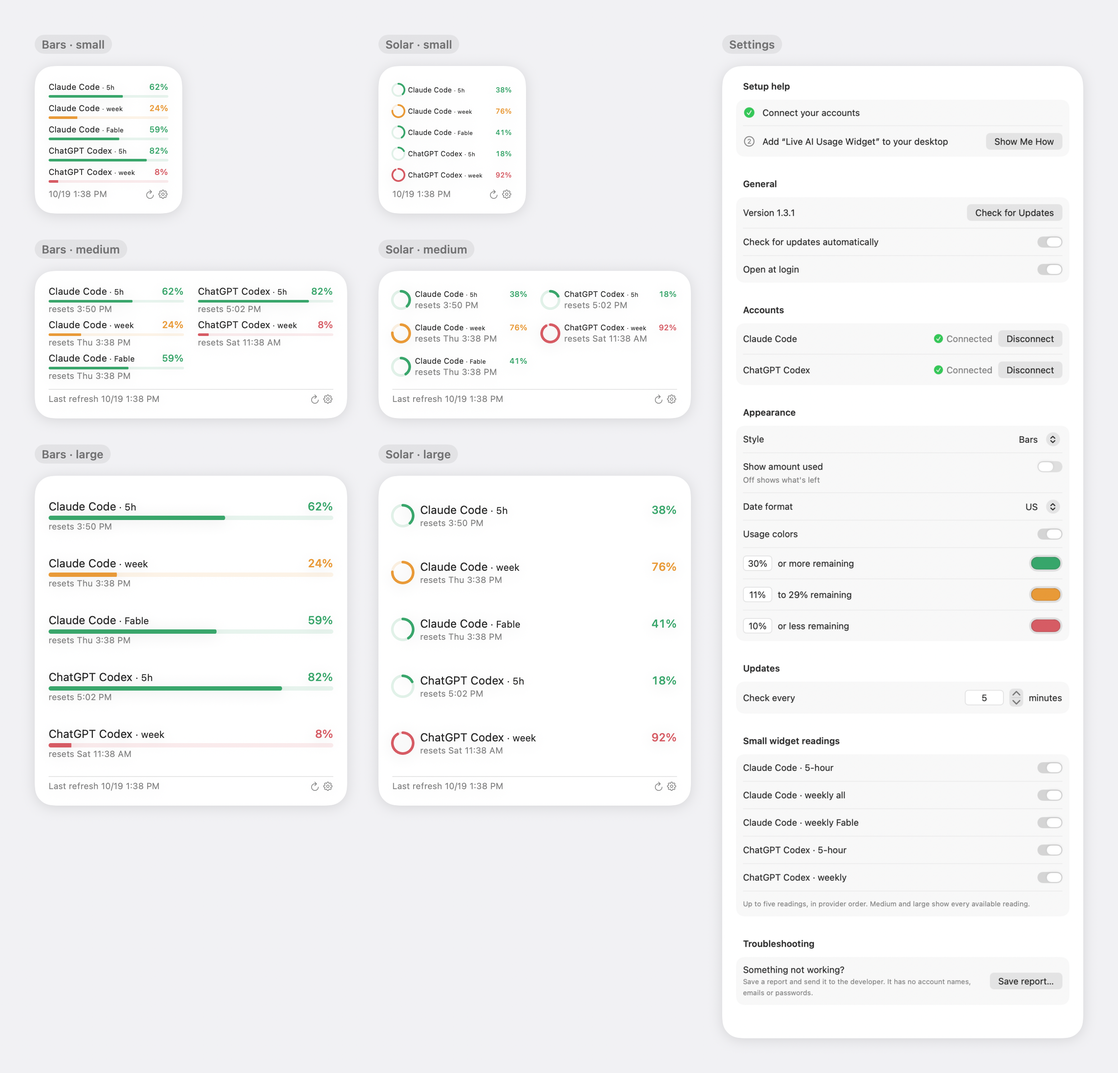
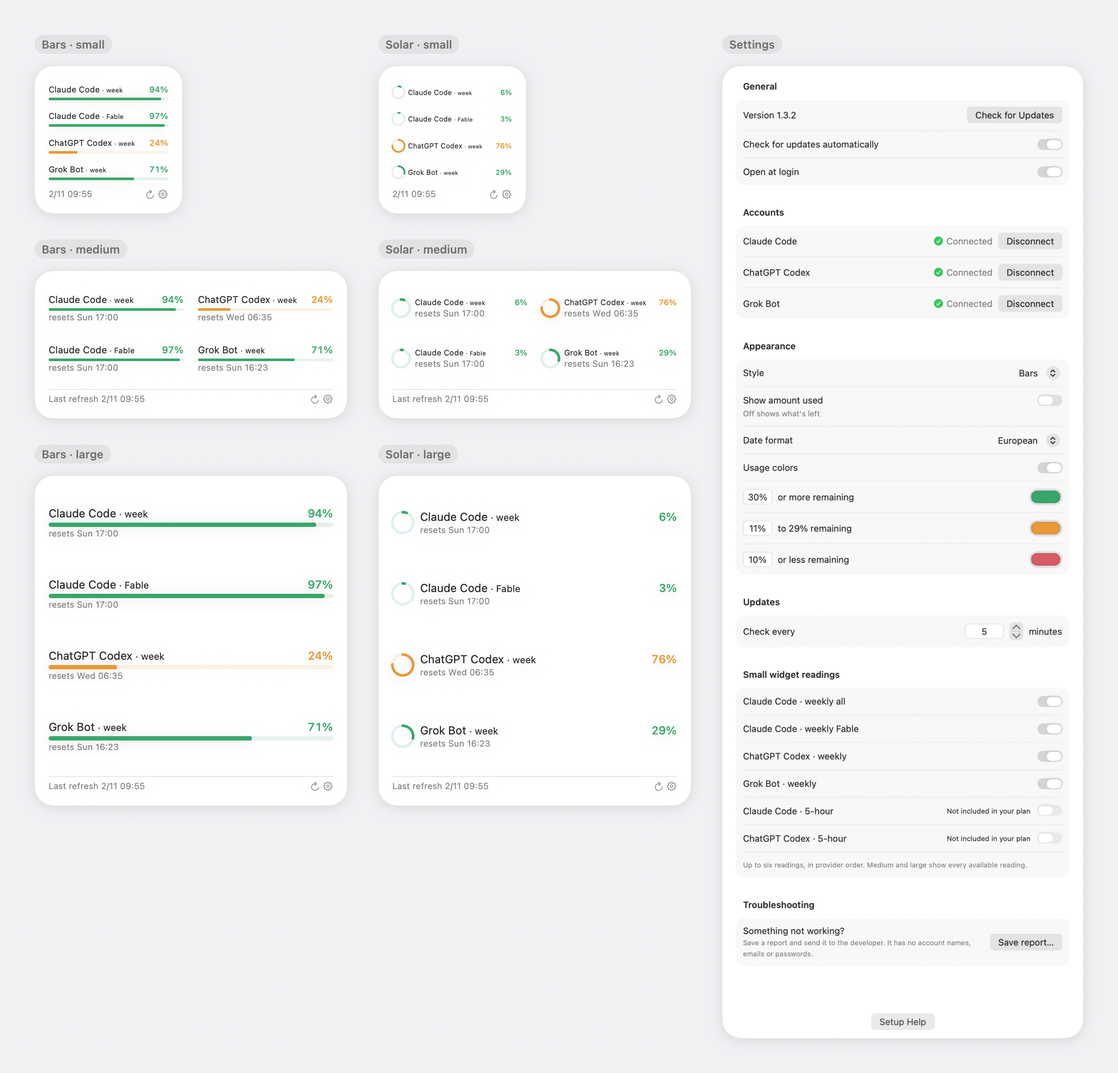
Prepare 1.3.2 formal Grok Bot release with verified artifacts and current images

diff --git a/tests/RenderGrokBot.swift b/tests/RenderGrokBot.swift
@@ -1,9 +1,8 @@
 import AppKit
 import SwiftUI
 
-/// Debug check for the Grok Bot account: reads the real Grok Bot usage file the way the app does (Collector, then the
-/// shared store, written to a scratch file in build/), then draws every widget size in both styles and the Settings
-/// window from the app's own views. Claude Code and ChatGPT Codex rows are made-up samples; nothing else is read.
+/// Draws every widget size and Settings from current installed readings and the real Grok Bot feed.
+/// All writes stay in the build folder; account state is read-only.
 /// Run: bash scripts/render_grokbot.sh
 @main struct RenderGrokBot {
     @MainActor static func main() throws {
@@ -12,31 +11,20 @@ import SwiftUI
         let folder = URL(fileURLWithPath: CommandLine.arguments[1])
         try FileManager.default.createDirectory(at: folder, withIntermediateDirectories: true)
         let now = Date()
-        let hour: TimeInterval = 3600
-        // The real file, through the same path as a check in the app.
+        let store = URL(fileURLWithPath: CommandLine.arguments[3])
+        guard var status = StatusStore.load(from: store.appendingPathComponent("status.json")) else {
+            fatalError("A current installed-app snapshot is required; no sample data is substituted")
+        }
+        let settings = try JSONDecoder().decode(WidgetSettings.self, from: Data(contentsOf: store.appendingPathComponent("settings.json")))
+        // Verify the current local feed through the production reader without writing account state.
         let collected = Collector.collect(previous: [:], providers: ["grokbot"], now: now) { _ in try UsageReader.grokBot() }
         let payload = try JSONSerialization.data(withJSONObject: ["usage": collected], options: [.sortedKeys])
         let real = try StatusStore.publishUsage(input: payload, to: folder.appendingPathComponent("status.json"), enabled: ["grokbot"])
-        guard let grok = real.usage?["grokbot"], let weekly = grok.windows.first else {
-            print("Grok Bot: no reading (", (collected["grokbot"] as? [String: Any])?["failure_reason"] ?? "unknown", ")"); exit(1)
-        }
-        let format = ISO8601DateFormatter()
-        print(String(format: "Grok Bot · %@: %.1f%% used, %.1f%% left", weekly.displayName, weekly.usedPercent, weekly.leftPercent),
-              "· resets", weekly.resetsAt.map(format.string) ?? "unknown", "· updated", grok.observedAt.map(format.string) ?? "unknown",
-              "· old reading:", grok.isStale(at: now) ? "yes" : "no")
-        let ok = UsageRefresh(status: .ok, lastAttemptAt: now, lastSuccessAt: now, lastFailureAt: nil, failureReason: nil)
-        let claude = [UsageWindow(window: "5-hour", usedPercent: 38, resetsAt: now.addingTimeInterval(2.2 * hour)),
-                      UsageWindow(window: "weekly all", usedPercent: 76, resetsAt: now.addingTimeInterval(74 * hour)),
-                      UsageWindow(window: "weekly Fable", usedPercent: 41, resetsAt: now.addingTimeInterval(74 * hour))]
-        let codex = [UsageWindow(window: "5-hour", usedPercent: 18, resetsAt: now.addingTimeInterval(3.4 * hour)),
-                     UsageWindow(window: "weekly", usedPercent: 92, resetsAt: now.addingTimeInterval(118 * hour))]
-        let status = WidgetStatus(usage: ["claude": AgentUsage(observedAt: now, windows: claude, refresh: ok),
-                                          "codex": AgentUsage(observedAt: now, windows: codex, refresh: ok), "grokbot": grok])
-        var settings = WidgetSettings()
-        settings.enabled = WidgetStatus.providers
-        settings.autoDetected = true
+        guard let grok = real.usage?["grokbot"], !grok.windows.isEmpty else { fatalError("Grok Bot feed has no reading") }
+        status.usage?["grokbot"] = grok
         WidgetSettings.sample = settings
         SettingsView.sample = true
+        UsageModel.sampleVersion = CommandLine.arguments[2]
 
         func widget(_ style: String, _ size: String) -> some View {
             var copy = settings; copy.style = style

diff --git a/tests/RenderOverview.swift b/tests/RenderOverview.swift
@@ -1,7 +1,7 @@
 import AppKit
 import SwiftUI
 
-/// Draws docs/images/overview.png from the app's real views with made-up readings; never touches account state.
+/// Draws docs/images/overview.png from the installed app's readings and settings, read-only.
 /// Run: bash scripts/render_overview.sh
 @main struct RenderOverview {
     @MainActor static func main() throws {
@@ -10,31 +10,11 @@ import SwiftUI
         let output = URL(fileURLWithPath: CommandLine.arguments[1])
         // Readings must be fresh for accounts to show as connected.
         let now = Date()
-        let hour: TimeInterval = 3600
-        let ok = UsageRefresh(status: .ok, lastAttemptAt: now, lastSuccessAt: now, lastFailureAt: nil, failureReason: nil)
-        let claude = [UsageWindow(window: "5-hour", usedPercent: 38, resetsAt: now.addingTimeInterval(2.2 * hour)),
-                      UsageWindow(window: "weekly all", usedPercent: 76, resetsAt: now.addingTimeInterval(74 * hour)),
-                      UsageWindow(window: "weekly Fable", usedPercent: 41, resetsAt: now.addingTimeInterval(74 * hour))]
-        let codex = [UsageWindow(window: "5-hour", usedPercent: 18, resetsAt: now.addingTimeInterval(3.4 * hour)),
-                     UsageWindow(window: "weekly", usedPercent: 92, resetsAt: now.addingTimeInterval(118 * hour))]
-        // Six hours of sample history, as the app keeps.
-        var history: [String: [UsageObservation]] = [:]
-        for (agent, windows) in [("claude", claude), ("codex", codex)] {
-            for window in windows {
-                var used = max(0, window.usedPercent - 14)
-                history[UsageHistory.key(agent, window.window)] = (0...36).map { step in
-                    let date = now.addingTimeInterval(Double(step - 36) * 600)
-                    if step > 0 { used = min(window.usedPercent, used + (step % 6 < 2 ? 1.2 : 0.15)) }
-                    return UsageObservation(date: date, usedPercent: step == 36 ? window.usedPercent : used, resetsAt: window.resetsAt)
-                }
-            }
+        let store = URL(fileURLWithPath: CommandLine.arguments[3])
+        guard let status = StatusStore.load(from: store.appendingPathComponent("status.json")) else {
+            fatalError("A current installed-app snapshot is required; no sample data is substituted")
         }
-        let status = WidgetStatus(usage: ["claude": AgentUsage(observedAt: now, windows: claude, refresh: ok),
-                                          "codex": AgentUsage(observedAt: now, windows: codex, refresh: ok)], usageHistory: history)
-        var settings = WidgetSettings()
-        settings.enabled = ["claude", "codex"]
-        settings.usDates = true
-        settings.autoDetected = true
+        let settings = try JSONDecoder().decode(WidgetSettings.self, from: Data(contentsOf: store.appendingPathComponent("settings.json")))
         WidgetSettings.sample = settings
         SettingsView.sample = true
         UsageModel.sampleVersion = CommandLine.arguments.count > 2 ? CommandLine.arguments[2] : nil

diff --git a/scripts/package.py b/scripts/package.py
@@ -43,6 +43,7 @@ def main():
             output.writestr(info, data)
     checksum = hashlib.sha256(archive.read_bytes()).hexdigest()
     (destination / 'SHA256SUMS').write_text(checksum + '  ' + archive.name + '\n')
+    (destination / (archive.name + '.sha256')).write_text(checksum + '  ' + archive.name + '\n')
     with zipfile.ZipFile(archive) as check:
         if len(check.namelist()) != len(files) or check.testzip() is not None:
             raise SystemExit('Archive verification failed')

diff --git a/docs/CLAUDE-HANDOFF.md b/docs/CLAUDE-HANDOFF.md
@@ -1,13 +1,14 @@
 # Maintainer handoff
 
-Current version: **1.3.1 (build 33), Apple Silicon, macOS 14+**, published as a full GitHub release in the public repository. This repository is the whole project; it has no parent workspace.
+Current version: **1.3.2 (build 34), Apple Silicon, macOS 14+**, prepared locally for a full GitHub release; not yet published. This repository is the whole project; it has no parent workspace.
 
 ## Current state
 
 - Name: Live AI Usage Widget. Bundle identifier `com.liveaiusagewidget.app`, widget `com.liveaiusagewidget.app.widget`, app group `TEAMID.com.liveaiusagewidget.app`, link scheme `live-ai-usage-widget://`.
 - The app is a menu bar app (no Dock icon): one iconned line per account, then Settings, Check usage now and Quit. It opens one setup window (Setup help steps, hidden once all are done with a Setup help link to show them, accounts, appearance, updates interval, small-widget readings; settings apply as they change (no Save button); Setup help toggle at the bottom once set up). There is no separate preview window. Connecting needs no Terminal: background install, browser sign-in, and automatic trust of the app's own probe folder. Bars (stored as "clean") is the default style; Solar is stored as "solar".
[1 lines of base64/hex data omitted]
-- The README picture `docs/images/overview.png` is drawn by `bash scripts/render_overview.sh` from the app's real views with sample data, then stripped of metadata. `scripts/package.py` refuses PNGs that carry metadata.
+- 1.3.2 tests, signed build, notarization, staple validation and Gatekeeper assessment pass. See [release record](RELEASE-1.3.2.md) for the submission ID and app checksum. Publication and CI for the new commit are pending.
+- The README picture and seven individual views in `docs/images/` use current local readings and settings. Both render scripts use the installed app-group data read-only, with completed setup represented only in scratch source. PNG metadata is stripped and checked by packaging.
+
 
 Read `docs/VALIDATION.md` for dated evidence and `docs/RELEASE-CHECKLIST.md` for what is still untested.
 
@@ -16,13 +17,13 @@ Read `docs/VALIDATION.md` for dated evidence and `docs/RELEASE-CHECKLIST.md` for
 1. Bump `CFBundleShortVersionString`/`CFBundleVersion` in `scripts/build.py`, the version in `Helper/Reader.swift` client info and the archive name in `scripts/package.py`. Add a CHANGELOG entry.
 2. `bash scripts/test.sh`, then a signed build: `python3 scripts/build.py --team-id TEAMID --signing-identity IDENTITY`.
 3. `python3 scripts/release.py --notary-profile PROFILE` (resume an uncertain submission with `--submission-id`; never resubmit blindly), then `python3 scripts/package.py`.
-4. Push, wait for CI, then create a GitHub prerelease with the app ZIP, source ZIP and both `.sha256` files. Download them back and verify the checksums. Give the app ZIP the asset label "Download for Mac (Apple Silicon) - Live AI Usage Widget X.Y.Z" and update the README Download for Mac link to the new file name.
+4. Push, wait for CI, then create a full GitHub release (not a prerelease) with the app ZIP, source ZIP and both `.sha256` files. Download them back and verify the checksums. Give the app ZIP the asset label "Download for Mac (Apple Silicon) - Live AI Usage Widget X.Y.Z" and update the README Download for Mac link to the new file name.
 
-Keep commits on the GitHub noreply address. Never add credentials, account screenshots or personal paths.
+Keep commits on the GitHub noreply address. Never add credentials, account identities or personal paths. Usage-only renders are approved for this release.
 
-## Unreleased: Grok Bot (grokbot-usage branch, 11/1/2026)
+## 1.3.2: Grok Bot (prepared 11/2/2026)
 
-Third provider key `grokbot` ("Grok Bot"). `WidgetStatus.providers` lists all three; `WidgetStatus.tools` only the two CLIs (install, find, sign-in, diagnostics). Helper files stay free of Shared types, so `Collector`/`Main` list the three keys themselves. `UsageReader.grokBot()` reads the feed file (docs/GROKBOT-FEED.md); `Collector.collect` never gates `grokbot`. New `AgentUsage.maximumAge` (3 h for Grok Bot) and `sharedWithOtherApps` (parsed, never shown: the owner asked for no shared-limit text), both carried through `merged`. New failure reason `feed_missing`. Medium layout: `columns` puts accounts 2 and 3 in the second column. Small widget cap 6. `bash scripts/render_grokbot.sh` draws all widgets and Settings with the real feed file into build/grokbot-preview/. Not yet checked as a live desktop widget (needs a signed build).
+Third provider key `grokbot` ("Grok Bot"). `WidgetStatus.providers` lists all three; `WidgetStatus.tools` only the two CLIs (install, find, sign-in, diagnostics). Helper files stay free of Shared types, so `Collector`/`Main` list the three keys themselves. `UsageReader.grokBot()` reads the feed file (docs/GROKBOT-FEED.md); `Collector.collect` never gates `grokbot`. New `AgentUsage.maximumAge` (3 h for Grok Bot) and `sharedWithOtherApps` (parsed, never shown: the owner asked for no shared-limit text), both carried through `merged`. New failure reason `feed_missing`. Medium layout: `columns` puts accounts 2 and 3 in the second column. Small widget cap 6. `bash scripts/render_grokbot.sh` draws all widgets and Settings with the real feed file into build/grokbot-preview/. The installed build 34 Settings panel is checked live; complete desktop size/style comparison remains unverified. See VALIDATION.md.
 
 ## 1.3.1 (10/19/2026)
 

diff --git a/README.md b/README.md
@@ -2,13 +2,15 @@
 
 A macOS desktop widget that shows how much of your Claude Code, ChatGPT Codex and Grok Bot usage limits are left, or how much you have used. Small, medium and large widgets come in two styles: Bars (default), which shows what is left, and Solar, rings that fill clockwise as you use your limits. Accounts and data stay on your own Mac.
 
-**[Download for Mac (Apple Silicon)](https://github.com/jeremymorrison77/live-ai-usage-widget/releases/latest/download/Live-AI-Usage-Widget-1.3.1-macOS-arm64.zip)** · version 1.3.1 · macOS 14 or later · M1 or newer
+**[Download for Mac (Apple Silicon)](https://github.com/jeremymorrison77/live-ai-usage-widget/releases/latest/download/Live-AI-Usage-Widget-1.3.2-macOS-arm64.zip)** · version 1.3.2 · macOS 14 or later · M1 or newer
 
 <p align="center"><img src="docs/images/overview.png" alt="Settings window and the widget in all sizes and styles" width="100%"></p>
 
-Pictures are drawn from the app's own views with made-up sample readings, not a real account.
+Pictures are drawn from the app's own views using current local readings and settings (November 2, 2026), including Grok Bot. This account exposes four readings; the small widget supports up to six when the connected plans expose them. No account identity is included.
 
-**Version 1.3.1.** Apple Silicon Macs, macOS 14 or later. Signed and notarized by Apple.
+[Bars: small](docs/images/clean-small.png) · [medium](docs/images/clean-medium.png) · [large](docs/images/clean-large.png) · [Solar: small](docs/images/solar-small.png) · [medium](docs/images/solar-medium.png) · [large](docs/images/solar-large.png) · [Settings](docs/images/settings.png)
+
+**Version 1.3.2.** Apple Silicon Macs, macOS 14 or later. Signed and notarized by Apple.
 
 ## Download and install
 
@@ -49,13 +51,14 @@ Changes apply as you make them; there is no Save button. You can close the windo
 
 - Apple Silicon Mac running macOS 14 or later. Intel Macs are not supported.
 - Claude Code 2.1.301 or newer (`claude update`) and/or ChatGPT Codex (OpenAI's official Codex command-line tool), installed and signed into **your** account. Your plan must expose usage limits through that tool. API-key-only accounts are not supported.
+- For Grok Bot, a routine that writes the [local usage file](docs/GROKBOT-FEED.md); no Claude Code or Codex installation is needed for Grok Bot alone.
 - Nothing else. Python and developer tools are only needed to build from source.
 
 No provider tools, credentials or private signing material are included.
 
 ## Known limits
 
-Tested on two Apple Silicon Macs with real Claude Code and ChatGPT Codex accounts, and on fresh macOS 15 test Macs with neither tool, either one, and both. Not yet tested: reboots and sleep over several days, sign-ins renewing on their own over time, and revoked sign-ins. See [release checks](docs/RELEASE-CHECKLIST.md).
+Tested on two Apple Silicon Macs with real Claude Code and ChatGPT Codex accounts, and on fresh macOS 15 test Macs with neither tool, either one, and both. Grok Bot is verified locally with its current feed; a fresh-Mac Grok Bot setup has not been tested. Not yet tested: reboots and sleep over several days, sign-ins renewing on their own over time, and revoked sign-ins. See [release checks](docs/RELEASE-CHECKLIST.md).
 
 ## Build and test
 
@@ -66,7 +69,7 @@ bash scripts/test.sh
 python3 scripts/build.py
 ```
 
-`bash scripts/render_overview.sh` redraws the picture above from the app's own views with sample readings.
+`bash scripts/render_overview.sh` redraws the overview from the installed app's current readings and settings. `bash scripts/render_grokbot.sh` regenerates individual views and checks the real Grok Bot feed. Both require the installed app and local data; they change only build/documentation files. The Settings render represents completed setup. Review every image before sharing it.
 
 This produces a **compile-only** app in `build/Live AI Usage Widget.app`. It is not a signed installer. Nothing is installed, launched, registered at login or stopped by these commands.
 
@@ -98,7 +101,7 @@ To uninstall: turn off Open at login, choose Quit from the menu bar icon, remove
 
 ## License
 
-This is independent software, not an Anthropic or OpenAI product. Provider names identify compatibility only.
+This is independent software, not an Anthropic, OpenAI or xAI product. Provider names identify compatibility only.
 
 Released under the [MIT License](LICENSE). See [third-party notices](THIRD-PARTY-NOTICES.md).
 

diff --git a/docs/VALIDATION.md b/docs/VALIDATION.md
@@ -1,5 +1,19 @@
 # Validation record
 
+## 1.3.2 (build 34) — 11/2/2026, local release preparation
+
+Version retained because neither local/remote tags nor the GitHub release list contained 1.3.2; latest full release was 1.3.1. Local main fast-forwarded to the already-pushed dfaba27 before release work. App/extension versions remain 1.3.2 / 34 and the native reader client version matches.
+
+`bash scripts/test.sh`: 18 Python tests passed; native history/store and reader/collector/updater checks passed, including Grok Bot parsing, retention and unchanged-reading behavior. Signed arm64 build passed. Existing compiler deprecation and redundant-try warnings remain; no test or build failure.
+
[1 lines of base64/hex data omitted]
+
+The installed Settings window was visually inspected at the top and bottom: version 1.3.2, all three accounts Connected, Grok Bot small-reading selection, no shared-limit text. The timeline receipt records build 34 and all three provider observation timestamps. This receipt proves a timeline read, not a visible repaint. The existing screen tool only exposes individual app windows and selected Notification Center windows; both complete displays and every installed widget size/style could not be inspected. That direct comparison remains a handoff check.
+
+Regenerated and visually inspected all eight `docs/images` PNGs: overview, Bars and Solar small/medium/large, and Settings. Production SwiftUI views use real current account readings and settings; Grok Bot also passes through the production local-feed reader. Pictures show Claude weekly 6% used, Fable 3%, Codex weekly 76%, Grok Bot weekly 29%; these account plans expose four readings. No made-up five-hour readings were added to claim six-row visual validation. Settings uses a completed-setup state only in the generated scratch source; running app preferences are unchanged. All PNG metadata is stripped. Scratch render and verification files/logs stay in ignored `build/`.
+
+Source export includes the previously omitted Grok Bot feed documentation, renderer and script, plus all new images and release notes. Its allowlist/privacy checks and ZIP integrity verification pass. The local update-feed fixture is parsed by the production updater and identifies 1.3.2 as newer than 1.3.1; no feed is published. Published-download verification, clean-Mac Grok Bot setup, and GitHub CI for the new commit remain pending. Other historical acceptance limits below still apply.
+
 ## 1.3.1 (build 33) — 10/19/2026
 
 Owner tested the click-to-show-reset on his own Mac (test builds): shows "Resets …" within about half a second, a second click goes back, names fit. Click timing filmed on a test Mac: about 0.5 s with a two-entry plan (3.5 s with the full plan). Release ZIP as a real download on a fresh test Mac: moved itself, connected ChatGPT Codex; Claude Code reported sign-in required because the test Mac's saved Claude sign-in had expired (confirmed with Claude Code itself), not an app fault. Published files downloaded back, checksums matched, Gatekeeper accepted; installed on the owner's Mac. Notarization Accepted (submission 6b10783a-0673-4823-8dd1-358205562209; app ZIP SHA-256 721768e71df5d79facde0f68f7ce84152389d9d15c664970e92e69d0c39e2cb8).

diff --git a/docs/RELEASE-1.3.2.md b/docs/RELEASE-1.3.2.md
@@ -1,0 +1,31 @@
+# Live AI Usage Widget 1.3.2
+
+**[Download for Mac (Apple Silicon)](https://github.com/jeremymorrison77/live-ai-usage-widget/releases/download/v1.3.2/Live-AI-Usage-Widget-1.3.2-macOS-arm64.zip)**, or choose it under Assets.
+
+A macOS desktop widget for Claude Code, ChatGPT Codex and Grok Bot usage. Version 1.3.2, build 34. Apple Silicon, macOS 14 or later. Developer ID signed and notarized by Apple.
+
+![All widget sizes and Settings](https://raw.githubusercontent.com/jeremymorrison77/live-ai-usage-widget/v1.3.2/docs/images/overview.png)
+
+## What's new
+
+- Grok Bot is a third account, showing weekly usage and its reset time from a local file written by a Grok Bot routine. See the [feed setup](https://github.com/jeremymorrison77/live-ai-usage-widget/blob/v1.3.2/docs/GROKBOT-FEED.md). Readings older than three hours fade.
+- Small widgets support up to six readings. Medium and large widgets include every available reading, including Grok Bot.
+- Widgets redraw only on a new reading or changed outcome, preserving macOS's reload budget when the same local file is checked each minute.
+- No shared-with-other-apps text appears in widgets or Settings. The optional feed field is still accepted.
+- Refreshed pictures cover Bars and Solar in all three sizes and the current Settings panel, using real local readings without account identities.
+
+## Install or update
+
+1. Download and unzip the Mac archive.
+2. Drag **Live AI Usage Widget** into Applications and open it.
+3. Follow Setup help to connect accounts and add a desktop widget. For Grok Bot, first arrange the local feed routine.
+
+On 1.1.1 or later, use Check for Updates in Settings or choose Update to version 1.3.2 in the menu bar after this release is published. Automatic checks run once a day. The GitHub full release is the update feed; there is no separate appcast.
+
+## Validation and known limits
+
[1 lines of base64/hex data omitted]
+
+The installed build 34 Settings panel shows all three accounts connected. All six rendered widget layouts and Settings were inspected. Direct live comparison with every desktop size/style on both displays remains unverified. The real accounts expose four readings; six-reading capacity is implemented, but a live six-reading layout was not verified with these accounts.
+
+Earlier versions were tested on two Apple Silicon Macs and fresh macOS 15 test users. Fresh-Mac installation and download-back verification of this release await publication. Grok Bot has only been tested with the local feed. Multi-day reboot/sleep behavior, natural sign-in renewal and revoked authorization remain unverified. Intel is unsupported. Apple notarization does not establish compatibility with every account or Mac.

diff --git a/docs/RELEASE-CHECKLIST.md b/docs/RELEASE-CHECKLIST.md
@@ -1,12 +1,12 @@
 # Release acceptance
 
-Version 1.3.1. A signed, notarized Apple Silicon ZIP is prepared. Notarization establishes Apple's distribution check, not compatibility with every account or Mac.
+Version 1.3.2 (build 34), prepared locally on November 2, 2026; publication is pending Icarus review. A signed, notarized Apple Silicon ZIP is prepared. Notarization establishes Apple's distribution check, not compatibility with every account or Mac.
 
 ## Verified locally
 
 - [x] Product name Live AI Usage Widget; MIT license included.
 - [x] Native Swift collector; no runtime Python dependency or bundled provider binaries.
-- [x] Clean and Solar, small/medium/large layouts, account selection and small-widget metric selection.
+- [x] Bars and Solar, small/medium/large layouts, account selection and small-widget metric selection.
 - [x] Reader protocol/parser, timeout, privacy filtering, retry/backoff, failure retention and history tests.
 - [x] Signed companion and WidgetKit extension, hardened runtime, matching app groups.
 - [x] Host app-group read/write self-check; real Claude Code and ChatGPT Codex readings on both test Macs. The second Mac's desktop displayed both providers.
@@ -37,3 +37,9 @@ python3 scripts/package.py
 ```
 
 The release command submits to Apple, records the submission ID, waits, staples and verifies. If interrupted, inspect Apple's status and use `--submission-id ID` to resume the same submission. Never automatically resubmit an uncertain upload. Credentials stay in Keychain; do not put them in source, logs or CI variables unless separately reviewed.
+
+## 1.3.2 release boundary
+
+See [release notes and record](RELEASE-1.3.2.md) and [validation](VALIDATION.md). Tests, Developer ID signing, Apple notarization, staple validation and Gatekeeper assessment passed. All documentation images were regenerated from real local data. The running Settings window was visually checked; direct comparison with every desktop widget on both displays remains unverified because the available screen tool exposes individual windows only.
+
+The updater reads GitHub's latest non-prerelease release, so publishing a full release with the app ZIP and matching `.sha256` is the update-feed publish step. No separate appcast exists. A local fixture in `dist/update-feed-1.3.2.json` describes the expected GitHub response; it is not an additional release asset. Do not publish a prerelease for this formal release.

diff --git a/docs/ARCHITECTURE.md b/docs/ARCHITECTURE.md
@@ -1,6 +1,6 @@
 # Architecture and recovery
 
-The native companion owns collection. Its timer checks once per minute while running; the native Swift collector gates each provider independently to five minutes after success and fifteen minutes after failure. It uses a nonblocking file lock and atomic state replacement. A clock rollback cannot postpone retries indefinitely. The app requests WidgetKit reload after publication; timeline entries also age existing values without requiring a new reading.
+The native companion owns collection. Its timer checks once per minute while running; the native Swift collector gates each provider independently to five minutes after success and fifteen minutes after failure. It uses a nonblocking file lock and atomic state replacement. A clock rollback cannot postpone retries indefinitely. The app requests WidgetKit reload only when readings or refresh outcomes change (attempt timestamps alone do not trigger it); timeline entries also age existing values without requiring a new reading.
 
 Claude Code is read through its own `/usage` terminal panel in a bounded disposable working directory. It disables tools and hooks for the probe. The parser requires valid percentages and explicit reset timezones and accepts optional per-model weekly limits. Terminal output must settle before accepting it. UI changes, new CLI prompts or unsupported date formats can break parsing; failure is preferable to guessed data.
 

diff --git a/CHANGELOG.md b/CHANGELOG.md
@@ -1,8 +1,8 @@
 # Changelog
 
-## Unreleased (grokbot-usage branch)
+## 1.3.2
 
-Grok Bot is a third account. It shows one reading, Weekly, as left or used like the others, with its reset time. Grok Bot has no tool to sign in to: a Grok Bot routine writes a small file each hour and the app reads it during its normal check (see docs/GROKBOT-FEED.md). Its readings fade after 3 hours. Settings > Accounts, the menu bar list and Small widget readings include it; Disconnect only hides it. The medium widget puts ChatGPT Codex and Grok Bot in the second column. The small widget now shows up to six readings.
+Grok Bot is a third account. It shows one reading, Weekly, as left or used like the others, with its reset time. Grok Bot has no tool to sign in to: a Grok Bot routine writes a small file each hour and the app reads it during its normal check (see docs/GROKBOT-FEED.md). Its readings fade after 3 hours. Settings > Accounts, the menu bar list and Small widget readings include it; Disconnect only hides it. The medium widget puts ChatGPT Codex and Grok Bot in the second column. The small widget now shows up to six readings. The widget redraws only when a reading or its outcome changes, rather than on every one-minute check of the same Grok Bot file. Removed all shared-with-other-apps text from the widget and Settings; the optional feed field remains supported.
 
 ## 1.3.1
 

diff --git a/docs/MORNING-NOTE-grokbot.md b/docs/MORNING-NOTE-grokbot.md
@@ -1,6 +1,8 @@
 # Grok Bot support: overnight note (11/1/2026)
 
-Done, local only (nothing pushed, tagged, notarized or released):
+Historical note from November 1. Superseded by the November 2 [release preparation record](RELEASE-1.3.2.md); the original observations below are retained.
+
+At the time, local only (nothing pushed, tagged, notarized or released):
 
 - Branch `grokbot-usage`: reviewed. One fix (d5c28b5): Grok Bot's file is read on every one-minute check, so its attempt time changed every minute and the app redrew the widget every minute, spending macOS's widget reload budget. It now redraws only on a new reading or a changed outcome. Version bumped to 1.3.2 (build 34) in ef1c8c6. At your request, all "shared with other apps" text is gone from the widget and Settings (the file field is still read, just not shown).
 - `bash scripts/test.sh` passes. Signed build with "Developer ID Application: JEREMY ALEXANDER MORRISON (7F78Q6T29S)", no keychain prompt. Not notarized (fine for this Mac; needed before sharing).

diff --git a/docs/GROKBOT-FEED.md b/docs/GROKBOT-FEED.md
@@ -33,3 +33,5 @@ Keep the file under 16 KB. Write it in one step (write a temporary file in the s
 - Settings > Accounts shows Grok Bot as Connected while the file is there and `updatedAt` is under 3 hours old. Otherwise it says "No usage file yet", "Reading is over 3 hours old" or "Couldn't read usage file", with a Try Again button. Disconnect only hides Grok Bot.
 - A reading older than 3 hours fades and reads "Old reading" on the widget, like other old readings. Writing hourly leaves room for two missed writes.
 - A file that is missing or unreadable keeps the last good reading, which then ages as usual.
+
+The one-minute file check does not itself redraw the widget. A new reading or changed outcome triggers the redraw; unchanged attempt times do not spend the widget reload budget.
